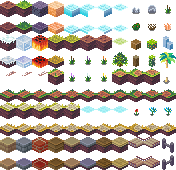
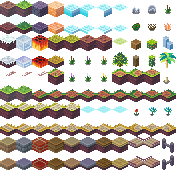
begin implementation of rotated textures and add randomised grass texture

Changed region(s): [[0.0, 0.5, 0.1989, 0.5882]]

diff --git a/src/bundle.js b/src/bundle.js
@@ -76,7 +76,7 @@ eval("\nObject.defineProperty(exports, \"__esModule\", ({ value: true }));\nexpo
   \****************************************/
 /***/ ((__unused_webpack_module, exports, __webpack_require__) => {
 
-eval("\nObject.defineProperty(exports, \"__esModule\", ({ value: true }));\nexports.GenerateRenderTiles = exports.InitialiseEdgeTiles = void 0;\nconst edges_1 = __webpack_require__(/*! ../procedural/edges */ \"./src/front_end/procedural/edges.ts\");\nconst types_1 = __webpack_require__(/*! ../renderer/types */ \"./src/front_end/renderer/types.ts\");\nconst types_2 = __webpack_require__(/*! ../world/types */ \"./src/front_end/world/types.ts\");\nconst CreateTileTypeData = ({ tileIndexesList, tileset, tileSelector }) => {\n    const GetRenderTiles = ({ worldPosition, time }) => {\n        return tileIndexesList.map((tileIndexes, index) => {\n            const i = tileSelector(worldPosition, time);\n            return {\n                worldPosition: {\n                    x: worldPosition.x,\n                    y: worldPosition.y,\n                    z: worldPosition.z + index\n                },\n                tileIndex: tileIndexes[i],\n                tileset\n            };\n        });\n    };\n    return {\n        GetRenderTiles\n    };\n};\nconst CreateBasicTileTypeData = ({ tileIndex, tileset = types_1.TileSet.tiles }) => {\n    return CreateTileTypeData({\n        tileIndexesList: [[tileIndex]],\n        tileset,\n        tileSelector: () => 0\n    });\n};\nconst CreateRandomisedTileTypeData = ({ tileIndexes, tileset = types_1.TileSet.tiles }) => {\n    return CreateTileTypeData({\n        tileIndexesList: [tileIndexes],\n        tileset,\n        tileSelector: (worldPosition, time) => {\n            const z = SurfaceNoise({ x: worldPosition.x, y: worldPosition.y });\n            return Math.floor(z * tileIndexes.length);\n        }\n    });\n};\n// TODO Move this somewhere else\nconst CreateRandomNoise2D = () => {\n    const values = [];\n    const n = 13;\n    for (let y = -n; y < n; y++) {\n        for (let x = -n; x < n; x++) {\n            values.push(Math.random());\n        }\n    }\n    return (p) => {\n        return values[p.x + n + (p.y + n) * (2 * n)];\n    };\n};\nconst SurfaceNoise = CreateRandomNoise2D();\nconst tileMap = new Map([\n    [\n        types_2.TileType.dirt,\n        CreateRandomisedTileTypeData({\n            tileIndexes: [\n                { x: 5, y: 2 },\n                { x: 6, y: 2 }\n            ],\n            tileset: types_1.TileSet.tiles\n        })\n    ],\n    [types_2.TileType.grass, CreateBasicTileTypeData({ tileIndex: { x: 1, y: 0 } })],\n    [types_2.TileType.stone, CreateBasicTileTypeData({ tileIndex: { x: 2, y: 0 } })],\n    [types_2.TileType.sand, CreateBasicTileTypeData({ tileIndex: { x: 3, y: 0 } })],\n    [\n        types_2.TileType.water,\n        CreateTileTypeData({\n            tileIndexesList: [\n                [\n                    { x: 5, y: 6 },\n                    { x: 6, y: 6 },\n                    { x: 7, y: 6 }\n                ]\n            ],\n            tileset: types_1.TileSet.tiles,\n            tileSelector: (worldPosition, time) => {\n                const z = SurfaceNoise({ x: worldPosition.x, y: worldPosition.y });\n                const period = 20000;\n                const wrappedTime = (time + z * period) % period;\n                const i = Math.floor(wrappedTime / (period / 3));\n                return i;\n            }\n        })\n    ],\n    [\n        types_2.TileType.plant,\n        CreateRandomisedTileTypeData({\n            tileIndexes: [\n                { x: 4, y: 3 },\n                { x: 5, y: 3 },\n                { x: 6, y: 3 },\n                { x: 4, y: 4 },\n                { x: 5, y: 4 },\n                { x: 6, y: 4 }\n            ],\n            tileset: types_1.TileSet.tiles\n        })\n    ],\n    [types_2.TileType.cactus, CreateBasicTileTypeData({ tileIndex: { x: 8, y: 1 } })],\n    [types_2.TileType.log, CreateBasicTileTypeData({ tileIndex: { x: 8, y: 3 } })],\n    [types_2.TileType.canopy, CreateBasicTileTypeData({ tileIndex: { x: 7, y: 3 } })],\n    [\n        types_2.TileType.dryGrass,\n        CreateRandomisedTileTypeData({\n            tileIndexes: [\n                { x: 3, y: 2 },\n                { x: 4, y: 2 }\n            ],\n            tileset: types_1.TileSet.tiles\n        })\n    ],\n    [\n        types_2.TileType.smallStones,\n        CreateBasicTileTypeData({ tileIndex: { x: 8, y: 0 } })\n    ],\n    [\n        types_2.TileType.largeStones,\n        CreateBasicTileTypeData({ tileIndex: { x: 9, y: 0 } })\n    ],\n    [types_2.TileType.lava, CreateBasicTileTypeData({ tileIndex: { x: 2, y: 3 } })],\n    [\n        types_2.TileType.blueOrchid,\n        CreateTileTypeData({\n            tileIndexesList: [\n                [\n                    { x: 10, y: 6 },\n                    { x: 9, y: 6 }\n                ]\n            ],\n            tileset: types_1.TileSet.tiles,\n            tileSelector: (worldPosition, time) => {\n                // const perlin = NOISE_MANAGER.GetNoise('plants')\n                const z = SurfaceNoise({ x: worldPosition.x, y: worldPosition.y });\n                const period = 19000;\n                const offset = z * period;\n                const [start, end] = [offset, offset + 1000];\n                const wrappedTime = time % period;\n                // console.log({ start, end, worldPosition, time, z })\n                if (start < wrappedTime && wrappedTime < end) {\n                    return 1;\n                }\n                else {\n                    return 0;\n                }\n            }\n        })\n    ],\n    [types_2.TileType.rose, CreateBasicTileTypeData({ tileIndex: { x: 8, y: 6 } })],\n    [\n        types_2.TileType.palmTree,\n        CreateTileTypeData({\n            tileIndexesList: [[{ x: 10, y: 4 }], [{ x: 10, y: 3 }]],\n            tileset: types_1.TileSet.tiles,\n            tileSelector: (worldPosition, time) => 0\n        })\n    ],\n    [\n        types_2.TileType.dirtFrontEdge,\n        CreateRandomisedTileTypeData({\n            tileIndexes: [\n                { x: 0, y: 4 },\n                { x: 1, y: 4 },\n                { x: 2, y: 4 }\n            ],\n            tileset: types_1.TileSet.tiles\n        })\n    ]\n]);\nconst InitialiseEdgeTiles = () => {\n    for (const [name, p] of Object.entries(edges_1.EDGE_TILESET_DATA)) {\n        tileMap.set(name, CreateBasicTileTypeData({ tileIndex: p, tileset: types_1.TileSet.edges }));\n    }\n};\nexports.InitialiseEdgeTiles = InitialiseEdgeTiles;\nconst MapGet = (map, key) => {\n    const value = map.get(key);\n    if (value === undefined) {\n        throw Error(`Key ${key} not found in map ${map}`);\n    }\n    return value;\n};\nconst GenerateRenderTiles = ({ worldTiles, time }) => {\n    const rTiles = []; // render tiles\n    for (const wTile of worldTiles) {\n        const tileTypeData = tileMap.get(wTile.tileType);\n        if (tileTypeData === undefined) {\n            throw Error(`Tiletype ${wTile.tileType} not in tilemap`);\n        }\n        const rts = tileTypeData.GetRenderTiles({\n            worldPosition: wTile.p,\n            time\n        });\n        rTiles.push(...rts);\n    }\n    return rTiles;\n};\nexports.GenerateRenderTiles = GenerateRenderTiles;\n\n\n//# sourceURL=webpack:///./src/front_end/game/tilesets.ts?");
+eval("\nObject.defineProperty(exports, \"__esModule\", ({ value: true }));\nexports.GenerateRenderTiles = exports.InitialiseEdgeTiles = void 0;\nconst edges_1 = __webpack_require__(/*! ../procedural/edges */ \"./src/front_end/procedural/edges.ts\");\nconst types_1 = __webpack_require__(/*! ../renderer/types */ \"./src/front_end/renderer/types.ts\");\nconst types_2 = __webpack_require__(/*! ../world/types */ \"./src/front_end/world/types.ts\");\nconst CreateTileTypeData = ({ tileIndexesList, tileset, tileSelector }) => {\n    const GetRenderTiles = ({ worldPosition, time }) => {\n        return tileIndexesList.map((tileIndexes, index) => {\n            const i = tileSelector(worldPosition, time);\n            return {\n                worldPosition: {\n                    x: worldPosition.x,\n                    y: worldPosition.y,\n                    z: worldPosition.z + index\n                },\n                tileIndex: tileIndexes[i],\n                tileset\n            };\n        });\n    };\n    return {\n        GetRenderTiles\n    };\n};\nconst CreateBasicTileTypeData = ({ tileIndex, tileset = types_1.TileSet.tiles }) => {\n    return CreateTileTypeData({\n        tileIndexesList: [[tileIndex]],\n        tileset,\n        tileSelector: () => 0\n    });\n};\nconst CreateRandomisedTileTypeData = ({ tileIndexes, tileset = types_1.TileSet.tiles }) => {\n    return CreateTileTypeData({\n        tileIndexesList: [tileIndexes],\n        tileset,\n        tileSelector: (worldPosition, time) => {\n            const z = SurfaceNoise({ x: worldPosition.x, y: worldPosition.y });\n            return Math.floor(z * tileIndexes.length);\n        }\n    });\n};\n// TODO Move this somewhere else\nconst CreateRandomNoise2D = () => {\n    const values = [];\n    const n = 13;\n    for (let y = -n; y < n; y++) {\n        for (let x = -n; x < n; x++) {\n            values.push(Math.random());\n        }\n    }\n    return (p) => {\n        return values[p.x + n + (p.y + n) * (2 * n)];\n    };\n};\nconst SurfaceNoise = CreateRandomNoise2D();\nconst tileMap = new Map([\n    [\n        types_2.TileType.dirt,\n        CreateRandomisedTileTypeData({\n            tileIndexes: [\n                { x: 5, y: 2 },\n                { x: 6, y: 2 }\n            ],\n            tileset: types_1.TileSet.tiles\n        })\n    ],\n    [\n        types_2.TileType.grass,\n        CreateRandomisedTileTypeData({\n            tileIndexes: [\n                { x: 0, y: 5 },\n                { x: 1, y: 5 }\n            ],\n            tileset: types_1.TileSet.tiles\n        })\n    ],\n    [types_2.TileType.stone, CreateBasicTileTypeData({ tileIndex: { x: 2, y: 0 } })],\n    [types_2.TileType.sand, CreateBasicTileTypeData({ tileIndex: { x: 3, y: 0 } })],\n    [\n        types_2.TileType.water,\n        CreateTileTypeData({\n            tileIndexesList: [\n                [\n                    { x: 5, y: 6 },\n                    { x: 6, y: 6 },\n                    { x: 7, y: 6 }\n                ]\n            ],\n            tileset: types_1.TileSet.tiles,\n            tileSelector: (worldPosition, time) => {\n                const z = SurfaceNoise({ x: worldPosition.x, y: worldPosition.y });\n                const period = 20000;\n                const wrappedTime = (time + z * period) % period;\n                const i = Math.floor(wrappedTime / (period / 3));\n                return i;\n            }\n        })\n    ],\n    [\n        types_2.TileType.plant,\n        CreateRandomisedTileTypeData({\n            tileIndexes: [\n                { x: 4, y: 3 },\n                { x: 5, y: 3 },\n                { x: 6, y: 3 },\n                { x: 4, y: 4 },\n                { x: 5, y: 4 },\n                { x: 6, y: 4 }\n            ],\n            tileset: types_1.TileSet.tiles\n        })\n    ],\n    [types_2.TileType.cactus, CreateBasicTileTypeData({ tileIndex: { x: 8, y: 1 } })],\n    [types_2.TileType.log, CreateBasicTileTypeData({ tileIndex: { x: 8, y: 3 } })],\n    [types_2.TileType.canopy, CreateBasicTileTypeData({ tileIndex: { x: 7, y: 3 } })],\n    [\n        types_2.TileType.dryGrass,\n        CreateRandomisedTileTypeData({\n            tileIndexes: [\n                { x: 3, y: 2 },\n                { x: 4, y: 2 }\n            ],\n            tileset: types_1.TileSet.tiles\n        })\n    ],\n    [\n        types_2.TileType.smallStones,\n        CreateBasicTileTypeData({ tileIndex: { x: 8, y: 0 } })\n    ],\n    [\n        types_2.TileType.largeStones,\n        CreateBasicTileTypeData({ tileIndex: { x: 9, y: 0 } })\n    ],\n    [types_2.TileType.lava, CreateBasicTileTypeData({ tileIndex: { x: 2, y: 3 } })],\n    [\n        types_2.TileType.blueOrchid,\n        CreateTileTypeData({\n            tileIndexesList: [\n                [\n                    { x: 10, y: 6 },\n                    { x: 9, y: 6 }\n                ]\n            ],\n            tileset: types_1.TileSet.tiles,\n            tileSelector: (worldPosition, time) => {\n                // const perlin = NOISE_MANAGER.GetNoise('plants')\n                const z = SurfaceNoise({ x: worldPosition.x, y: worldPosition.y });\n                const period = 19000;\n                const offset = z * period;\n                const [start, end] = [offset, offset + 1000];\n                const wrappedTime = time % period;\n                // console.log({ start, end, worldPosition, time, z })\n                if (start < wrappedTime && wrappedTime < end) {\n                    return 1;\n                }\n                else {\n                    return 0;\n                }\n            }\n        })\n    ],\n    [types_2.TileType.rose, CreateBasicTileTypeData({ tileIndex: { x: 8, y: 6 } })],\n    [\n        types_2.TileType.palmTree,\n        CreateTileTypeData({\n            tileIndexesList: [[{ x: 10, y: 4 }], [{ x: 10, y: 3 }]],\n            tileset: types_1.TileSet.tiles,\n            tileSelector: (worldPosition, time) => 0\n        })\n    ],\n    [\n        types_2.TileType.dirtFrontEdge,\n        CreateRandomisedTileTypeData({\n            tileIndexes: [\n                { x: 0, y: 4 },\n                { x: 1, y: 4 },\n                { x: 2, y: 4 }\n            ],\n            tileset: types_1.TileSet.tiles\n        })\n    ]\n]);\nconst InitialiseEdgeTiles = () => {\n    for (const [name, p] of Object.entries(edges_1.EDGE_TILESET_DATA)) {\n        tileMap.set(name, CreateBasicTileTypeData({ tileIndex: p, tileset: types_1.TileSet.edges }));\n    }\n};\nexports.InitialiseEdgeTiles = InitialiseEdgeTiles;\nconst MapGet = (map, key) => {\n    const value = map.get(key);\n    if (value === undefined) {\n        throw Error(`Key ${key} not found in map ${map}`);\n    }\n    return value;\n};\nconst GenerateRenderTiles = ({ worldTiles, time }) => {\n    const rTiles = []; // render tiles\n    for (const wTile of worldTiles) {\n        const tileTypeData = tileMap.get(wTile.tileType);\n        if (tileTypeData === undefined) {\n            throw Error(`Tiletype ${wTile.tileType} not in tilemap`);\n        }\n        const rts = tileTypeData.GetRenderTiles({\n            worldPosition: wTile.p,\n            time\n        });\n        rTiles.push(...rts);\n    }\n    return rTiles;\n};\nexports.GenerateRenderTiles = GenerateRenderTiles;\n\n\n//# sourceURL=webpack:///./src/front_end/game/tilesets.ts?");
 
 /***/ }),
 

diff --git a/src/front_end/game/tilesets.ts b/src/front_end/game/tilesets.ts
@@ -109,7 +109,16 @@ const tileMap: Map<TileType | string, TileTypeData> = new Map([
       tileset: TileSet.tiles
     })
   ],
-  [TileType.grass, CreateBasicTileTypeData({ tileIndex: { x: 1, y: 0 } })],
+  [
+    TileType.grass,
+    CreateRandomisedTileTypeData({
+      tileIndexes: [
+        { x: 0, y: 5 },
+        { x: 1, y: 5 }
+      ],
+      tileset: TileSet.tiles
+    })
+  ],
   [TileType.stone, CreateBasicTileTypeData({ tileIndex: { x: 2, y: 0 } })],
   [TileType.sand, CreateBasicTileTypeData({ tileIndex: { x: 3, y: 0 } })],
   [

diff --git a/src/front_end/build_time.ts b/src/front_end/build_time.ts
@@ -1,1 +1,1 @@
-export const BUILD_TIME = new Date('2024-12-28T22:24:07.257Z');
+export const BUILD_TIME = new Date('2024-12-28T22:44:43.026Z');

diff --git a/src/local/procedural_connected_textures.py b/src/local/procedural_connected_textures.py
@@ -193,7 +193,7 @@ def boolean_mask_to_alpha(mask: list[bool], chance, min, max) -> list[int]:
             alphas.append(0)
     return alphas
 
-def main():
+def create_procedural_tile_edges():
     ps = create_pixel_positions()
     directory = 'assets/blocks'
     filenames: list[str] = get_filenames_without_extension(directory)
@@ -229,9 +229,69 @@ def main():
         json.dump(meta, f, cls=Pos2DEncoder, indent=4)
 
 
+
+def create_rotated_tiles():
+    ps = create_pixel_positions()
+    mask: list[bool] = [p.z == 10 for p in ps]
+
+    directory = 'assets/blocks'
+    filenames: list[str] = get_filenames_without_extension(directory)
+    images: dict[str, Image.Image] = {}
+    for filename in filenames:
+        name: str = filename
+
+        input_image_path: str = f"{directory}/{name}.png"
+        
+        # Load the original image
+        image = Image.open(input_image_path)
+        image_data = np.array(image)
+        
+        # Reshape the mask to match the image shape
+        mask_array = np.array(mask).reshape(image_data.shape[:2])  # Shape (17, 16) or as needed
+        
+        # Set all pixels not matching the mask to 0 (black)
+        for i in range(image_data.shape[0]):  # Height
+            for j in range(image_data.shape[1]):  # Width
+                if not mask_array[i, j]:
+                    image_data[i, j] = [0, 0, 0, 0]  # Assuming RGBA, or modify based on your image mode
+        
+        # Convert the modified array back to an image
+        modified_image = Image.fromarray(image_data)
+        
+        for ii, transpose_methods in enumerate([[], [Image.FLIP_LEFT_RIGHT], [Image.FLIP_TOP_BOTTOM], [Image.FLIP_LEFT_RIGHT, Image.FLIP_TOP_BOTTOM]]):
+            # Flip the image horizontally
+            flipped_image = modified_image.copy()
+            for transpose_method in transpose_methods:
+                flipped_image = flipped_image.transpose(transpose_method)
+            
+            # Create a copy of the original image for modification
+            original_image_data = np.array(image)
+            offset = [0, 0, 8, 8][ii]
+            # Set non-zero pixels from the flipped image onto the original image copy
+            for i in range(9):  # Height
+                for j in range(image_data.shape[1]):  # Width
+                    dd = flipped_image.getdata()[(i+offset) * image_data.shape[1] + j]
+                    if np.any(dd):  # Check if the pixel is non-zero
+                        original_image_data[i, j] = dd
+            
+            # Convert the modified original image back to an Image object
+            final_image = Image.fromarray(original_image_data)
+
+            key = f"{name}_rot_{['', 'x', 'y', 'xy'][ii]}"
+            images[key] = final_image
     
+    meta, tileset = combine_images_in_memory(images)
+    tileset.save(f"assets/procedural/rotated.png")
+
+    with open(f"assets/procedural/rotated.json", 'w') as f:
+        # Write the JSON data to the file
+        json.dump(meta, f, cls=Pos2DEncoder, indent=4)
     
-       
+def main():
+    # create_procedural_tile_edges()
+    create_rotated_tiles()
+   
+   
    
     
 

diff --git a/README.md b/README.md
@@ -32,6 +32,7 @@ Isometric Assets (Modified)
 19. Animated textures
 20. Tile metadata (grouped tiles, collision data, lighting normals, can walk through, is solid block)
 21. Procedural textures (e.g., for smoothing between tile types / rough edges)
+22. Flipped / rotated textures for increased variation
 
 ### World Dash
 
@@ -57,11 +58,14 @@ Isometric Assets (Modified)
 20. Vehiles / rideable animals
 21. Outrun style biome selection for difficulty
 
-## Procedural Textures
+## Textures
 
 1. Floor split into randomised versions of a block (also left and right walls)
 2. Floor must be multi-layered, floor and height pixels
 3. Add connected textures between floors and walls
+4. Switch to 16x16 textures (16x17 causes issues). Create seperate grass decoration
+5. Water pixels moving in tile across tiles (procedural water particles)
+6. Need tool for rendering tiles to view repeated textures 
 
 ## Rendering Process
 
